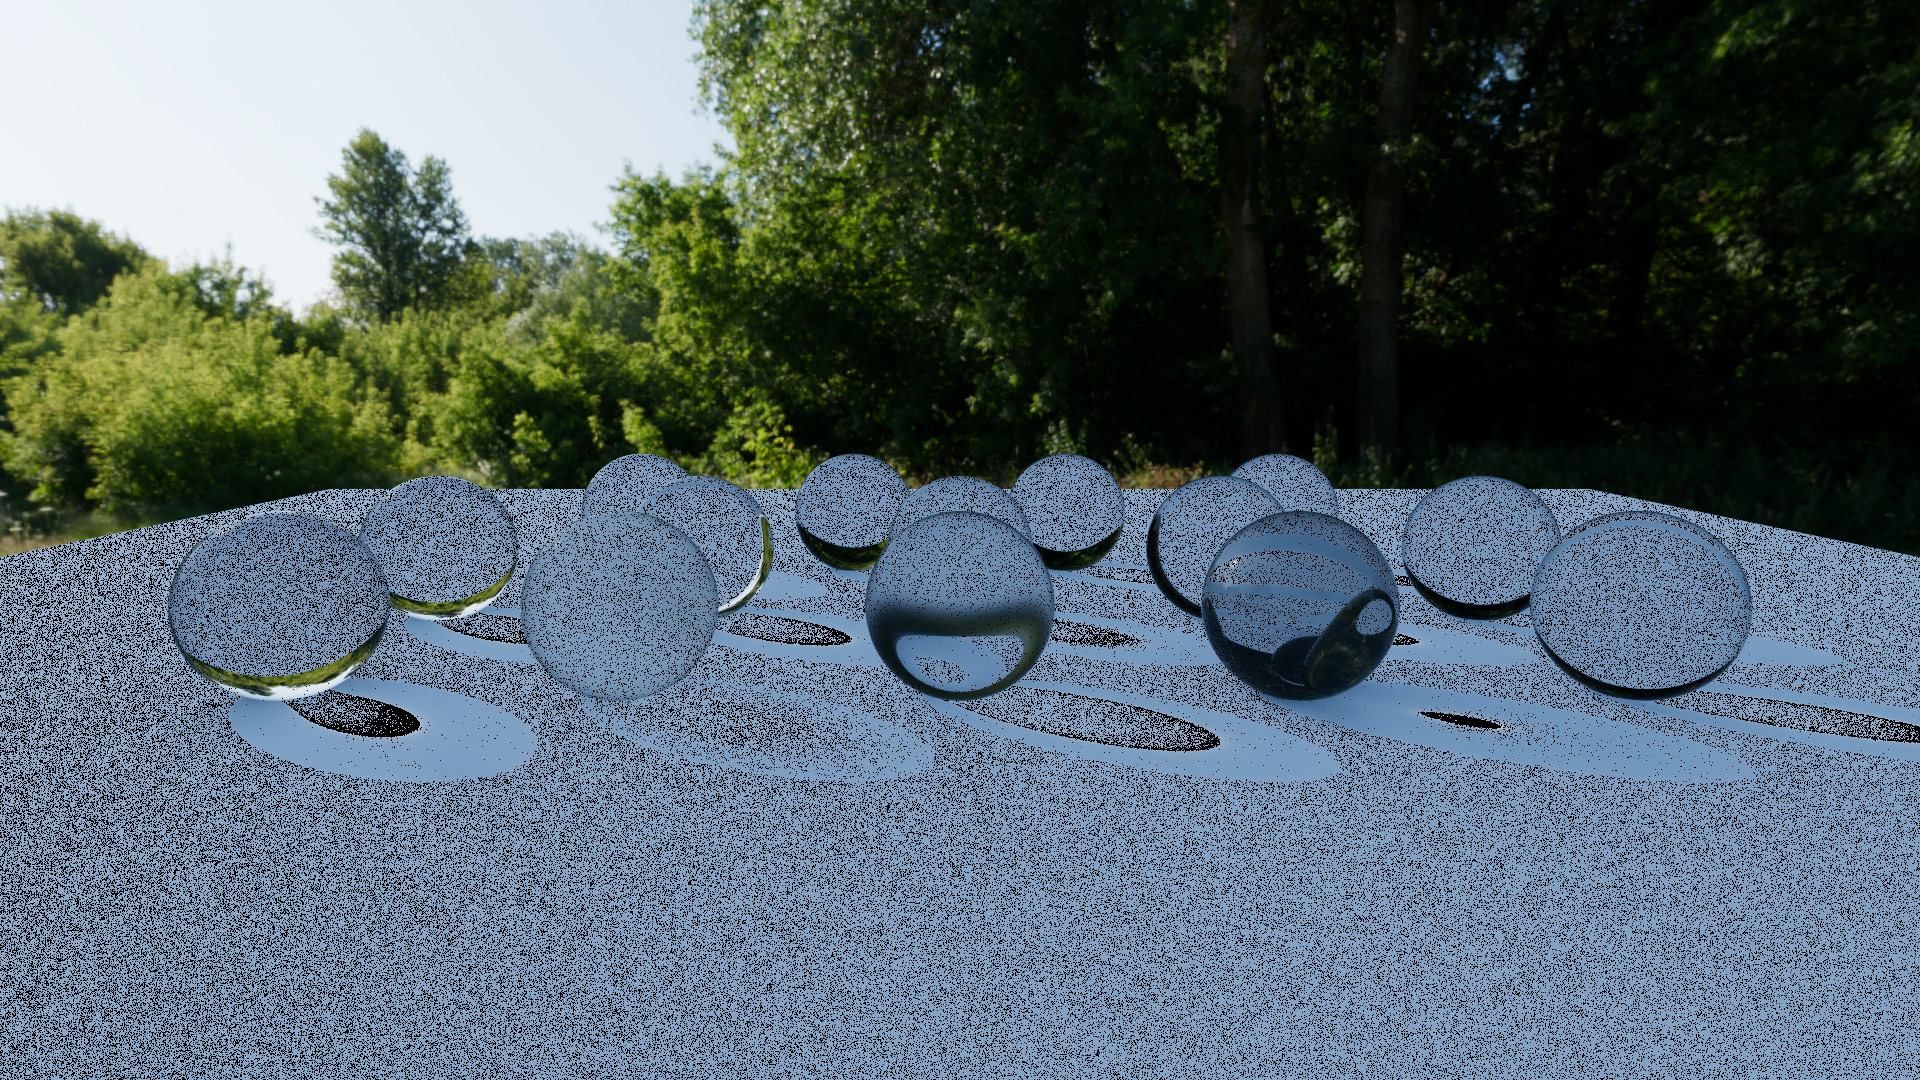
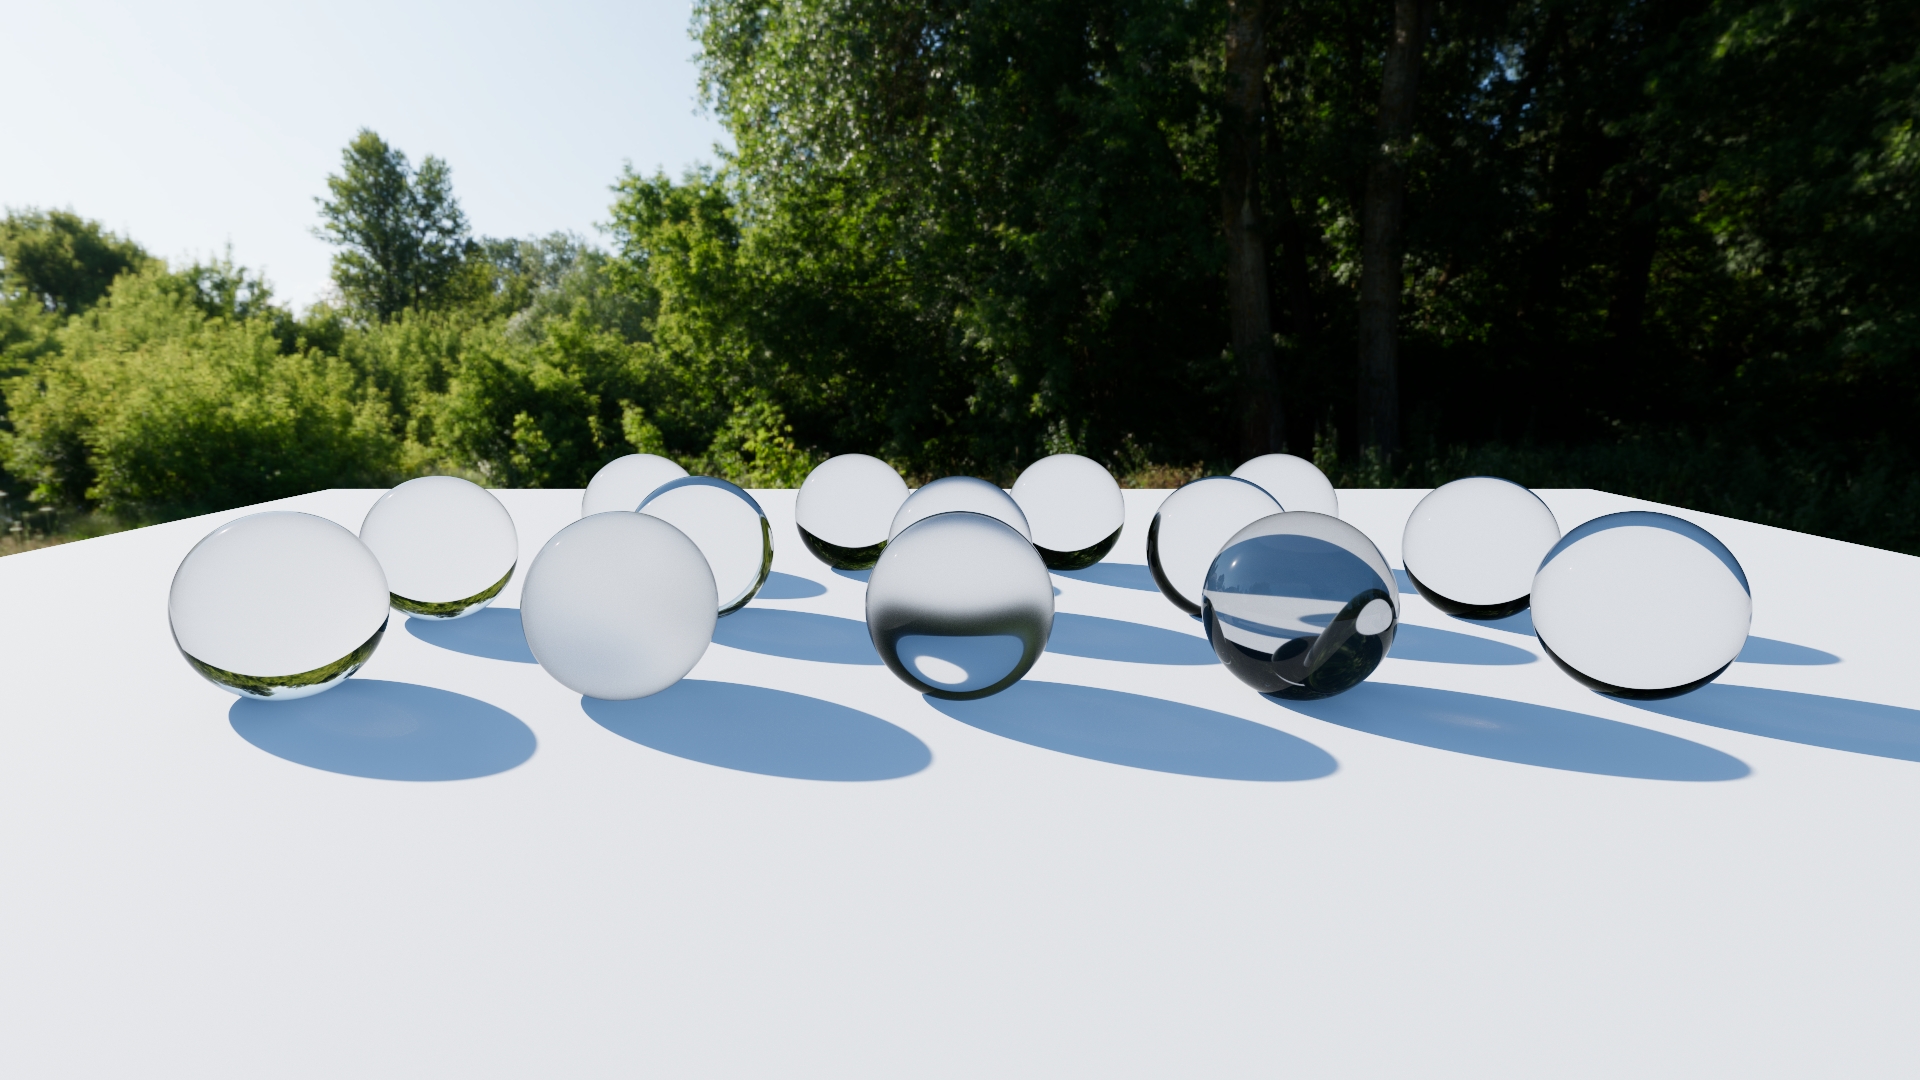
Add switchable tone mapper (ACES/AgX/Reinhard/Hable) + env map inf fix + Slang warning suppression
- GpuTypes.hpp: replace _pad with tonemapper in PushConstants; add Tonemapper enum
  (eACES=0, eAgX=1, eReinhard=2, eHable=3)
- tonemap.slang: extend PushConstants struct to full 12 fields; add AgX tone mapper
  (Troy Sobotka 2022) with gamut inset/outset matrices, log2 encoding, and
  per-channel S-curve polynomial; add dispatchTonemapper() helper used by SDR
  and Display P3 output paths; add Rec.709->P3 D65 matrix for non-ACES P3 output
- PathTracer: add tonemapper field to Config; pass through to PushConstants
- SceneLoader: parse 'tonemapper <aces|agx|reinhard|hable>' keyword in scene files
- Application: pass sceneConfig->tonemapper to PathTracer::Config
- assets/meadow_scene.scene: set 'tonemapper agx' — AgX handles the direct sun disc
  with natural highlight rolloff instead of ACES hard saturation
- IblProbe.cpp: safeHalf lambda clamps inf/NaN EXR pixels to kHalfMax=65504 to
  preserve sun brightness in both GPU texture and CDF (fixes black dot artifacts)
- cmake/CompileShaders.cmake: suppress Slang warnings 31000/39001/41012 via
  -warnings-disable flag (combined-image-sampler binding overlaps, harmless)
- tools/check_exr.cpp + CMakeLists.txt: add check_exr diagnostic tool for EXR
  pixel statistics (NaN/inf/negative/min/max reporting)
- screenshots/: re-render all 15 scenes with updated tone mapping

diff --git a/src/hyperion/scene/IblProbe.cpp b/src/hyperion/scene/IblProbe.cpp
@@ -84,15 +84,25 @@ IblProbe::loadFromEXR(const DeviceContext& ctx, const CommandPool& pool, const s
         const float m10 = 0.0690970f, m11 = 0.9195400f, m12 = 0.0113630f;
         const float m20 = 0.0163916f, m21 = 0.0880132f, m22 = 0.8955950f;
 
+        // Half-float max (65504): clamp before matrix multiply to stay finite.
+        // EXR panoramas routinely store the sun disc as half-float inf (exponent=31,
+        // mantissa=0) when the captured radiance exceeds the half-float range.
+        // Clamping to kHalfMax keeps the sun visible and correctly weighted in the CDF
+        // rather than zeroing it out, which would remove it from importance sampling.
+        auto safeHalf = [](float v) -> float {
+            constexpr float kHalfMax = 65504.0f;
+            return std::isfinite(v) ? std::min(v, kHalfMax) : kHalfMax;
+        };
+
         rgba32f.resize(static_cast<size_t>(width * height) * 4u);
         for (int i = 0; i < width * height; ++i) {
-            const float r = static_cast<float>(halfs[i].r);
-            const float g = static_cast<float>(halfs[i].g);
-            const float b = static_cast<float>(halfs[i].b);
+            const float r = safeHalf(static_cast<float>(halfs[i].r));
+            const float g = safeHalf(static_cast<float>(halfs[i].g));
+            const float b = safeHalf(static_cast<float>(halfs[i].b));
             rgba32f[i * 4 + 0] = m00 * r + m01 * g + m02 * b;
             rgba32f[i * 4 + 1] = m10 * r + m11 * g + m12 * b;
             rgba32f[i * 4 + 2] = m20 * r + m21 * g + m22 * b;
-            rgba32f[i * 4 + 3] = static_cast<float>(halfs[i].a);
+            rgba32f[i * 4 + 3] = safeHalf(static_cast<float>(halfs[i].a));
         }
     } catch (const std::exception& e) {
         Logger::error("IblProbe: failed to read '{}': {}", path.string(), e.what());
@@ -216,7 +226,8 @@ IblProbe::loadFromEXR(const DeviceContext& ctx, const CommandPool& pool, const s
                     const float g = rgba32f[idx + 1];
                     const float b = rgba32f[idx + 2];
                     // Rec.2020 luminance coefficients (ITU-R BT.2020)
-                    sumLum += std::max(0.2627f * r + 0.6780f * g + 0.0593f * b, 0.0f);
+                    const float lum = 0.2627f * r + 0.6780f * g + 0.0593f * b;
+                    sumLum += (std::isfinite(lum) && lum > 0.0f) ? lum : 0.0f;
                     ++count;
                 }
             }

diff --git a/src/demo/SceneLoader.hpp b/src/demo/SceneLoader.hpp
@@ -36,6 +36,15 @@
 ///   ev100         <v>           Physical camera EV100 override (aperture=f/1,
 ///                               iso=100, shutter=2^ev100 s⁻¹).  Typical outdoor
 ///                               values: 13–15.  Lower values → brighter image.
+///   tonemapper    <name>        Tone mapper for SDR and Display P3 output
+///                               (ignored for HDR10 / HLG / scRGB which use their
+///                               own transfer functions).  Valid values:
+///                                 aces     — ACES RRT+ODT filmic (default)
+///                                 agx      — AgX by Troy Sobotka; wide dynamic
+///                                            range, natural highlight rolloff,
+///                                            handles direct sun in IBL scenes
+///                                 reinhard — luminance-preserving Reinhard
+///                                 hable    — Hable / Uncharted-2 filmic
 ///
 /// ── Block keywords  (each starts a new block) ────────────────────────────────
 ///
@@ -86,6 +95,7 @@ class SceneLoader {
         std::optional<uint32_t> maxDepth;
         std::optional<float> envUnitNits;                ///< cd/m² per unit EXR value (physical unit multiplier)
         std::optional<std::filesystem::path> envMapFile; ///< equirect EXR IBL path (relative to assetsDir)
+        std::optional<uint32_t> tonemapper;              ///< Tonemapper enum value; std::nullopt → eACES default
     };
 
     /// Populate @p scene from @p sceneFile.

diff --git a/src/hyperion/GpuTypes.hpp b/src/hyperion/GpuTypes.hpp
@@ -7,6 +7,16 @@
 #define GLM_FORCE_DEPTH_ZERO_TO_ONE
 #include <glm/glm.hpp>
 
+/// Tone mapper selection (matches PushConstants::tonemapper and tonemap.slang switch).
+/// Applied only for SDR and Display P3 output; HDR paths (HDR10/HLG/scRGB) use their
+/// own transfer functions and ignore this field.
+enum class Tonemapper : uint32_t {
+    eACES     = 0, ///< ACES RRT+ODT (Stephen Hill fit)   — filmic, high contrast
+    eAgX      = 1, ///< AgX (Troy Sobotka, 2022)          — wide DR, natural highlight rolloff
+    eReinhard = 2, ///< Luminance-preserving Reinhard      — simple, smooth, no colour shift
+    eHable    = 3, ///< Hable / Uncharted-2 filmic         — moderate contrast, reference
+};
+
 /// Scene light types (matches GpuLight::type field and shader constants).
 enum class LightType : uint32_t {
     Rect = 0,        ///< Area / rectangular emitter  — intensity in cd/m² (nits)
@@ -110,7 +120,7 @@ struct PushConstants {
     uint32_t emissiveTriangleCount; ///< number of emissive triangles for NEE area sampling (0 = disabled)
     uint32_t envImportanceWidth;    ///< CDF grid width for env importance sampling (0 = disabled)
     uint32_t envImportanceHeight;   ///< CDF grid height for env importance sampling
-    uint32_t _pad;               // NOLINT(modernize-avoid-c-arrays) — explicit GPU layout padding
+    uint32_t tonemapper;            ///< Tonemapper enum value; SDR/P3 only (0 = eACES)
 };
 
 /// TLAS instance mask bit used in TraceRay InstanceInclusionMask comparisons.

diff --git a/tools/check_exr.cpp b/tools/check_exr.cpp
@@ -1,0 +1,33 @@
+#include <Imath/ImathBox.h>
+#include <OpenEXR/ImfRgbaFile.h>
+#include <algorithm>
+#include <cmath>
+#include <cstdio>
+#include <vector>
+int main(int argc, char* argv[]) {
+    const char* path = argc > 1 ? argv[1] : "assets/meadow_2_4k.exr";
+    using namespace OPENEXR_IMF_NAMESPACE;
+    RgbaInputFile file(path);
+    const IMATH_NAMESPACE::Box2i dw = file.dataWindow();
+    const int width  = dw.max.x - dw.min.x + 1;
+    const int height = dw.max.y - dw.min.y + 1;
+    std::vector<Rgba> pixels(static_cast<size_t>(width * height));
+    file.setFrameBuffer(pixels.data() - dw.min.x - dw.min.y * width, 1, width);
+    file.readPixels(dw.min.y, dw.max.y);
+    long long nanCount = 0, infCount = 0, negCount = 0;
+    float maxFinite = 0.0f;
+    for (const auto& px : pixels) {
+        for (float v : {(float)px.r, (float)px.g, (float)px.b}) {
+            if (std::isnan(v))       ++nanCount;
+            else if (std::isinf(v))  ++infCount;
+            else if (v < 0.0f)       ++negCount;
+            else maxFinite = std::max(maxFinite, v);
+        }
+    }
+    std::printf("Size      : %d x %d\n", width, height);
+    std::printf("NaN       : %lld\n", nanCount);
+    std::printf("Inf       : %lld\n", infCount);
+    std::printf("< 0       : %lld\n", negCount);
+    std::printf("MaxFinite : %.4f\n", maxFinite);
+    return 0;
+}

diff --git a/src/demo/SceneLoader.cpp b/src/demo/SceneLoader.cpp
@@ -392,6 +392,13 @@ std::optional<SceneLoader::SceneConfig> SceneLoader::load(const std::filesystem:
         } else if (kw == "env_map") {
             if (!rv.empty())
                 cfg.envMapFile = std::filesystem::path(std::string(rv));
+        } else if (kw == "tonemapper") {
+            const std::string name(rv);
+            if      (name == "aces")     cfg.tonemapper = 0u;
+            else if (name == "agx")      cfg.tonemapper = 1u;
+            else if (name == "reinhard") cfg.tonemapper = 2u;
+            else if (name == "hable")    cfg.tonemapper = 3u;
+            else Logger::warn("SceneLoader: unknown tonemapper '{}' — using default (aces)", name);
         }
         // Unknown keywords are silently ignored, consistent with OBJ/MTL.
     }

diff --git a/src/demo/Application.cpp b/src/demo/Application.cpp
@@ -379,6 +379,7 @@ std::expected<std::unique_ptr<Application>, int> Application::create(Config conf
                                          .hasEnvMap = app.m_iblProbe.isValid() ? 1u : 0u,
                                          .envImportanceWidth = app.m_iblProbe.cdfWidth(),
                                          .envImportanceHeight = app.m_iblProbe.cdfHeight(),
+                                         .tonemapper = sceneConfig->tonemapper.value_or(0u),
                                      });
     if (!tracer) {
         Logger::error("PathTracer creation failed: VkResult {}", static_cast<int>(tracer.error()));

diff --git a/src/hyperion/renderer/PathTracer.hpp b/src/hyperion/renderer/PathTracer.hpp
@@ -24,6 +24,7 @@ class PathTracer {
         uint32_t hasEnvMap = 0;        ///< 1 = IBL env map bound at set1/binding6
         uint32_t envImportanceWidth = 0;  ///< CDF grid width; 0 = importance sampling disabled
         uint32_t envImportanceHeight = 0; ///< CDF grid height
+        uint32_t tonemapper = 0;          ///< Tonemapper enum value; 0 = eACES (SDR/P3 only)
     };
 
     [[nodiscard]] static std::expected<PathTracer, VkResult> create(const DeviceContext& ctx,

diff --git a/src/hyperion/renderer/PathTracer.cpp b/src/hyperion/renderer/PathTracer.cpp
@@ -172,7 +172,7 @@ VkResult PathTracer::render(VkCommandBuffer cmd,
         .emissiveTriangleCount = scene.emissiveTriangleCount(),
         .envImportanceWidth = m_config.envImportanceWidth,
         .envImportanceHeight = m_config.envImportanceHeight,
-        ._pad = {},
+        .tonemapper = m_config.tonemapper,
     };
     vkCmdPushConstants(cmd, m_pipelineLayout, VK_SHADER_STAGE_ALL, 0, sizeof(PushConstants), &pushConstants);
 
